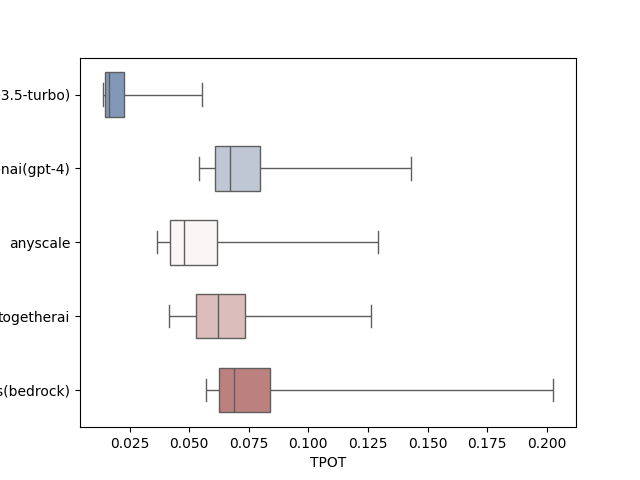
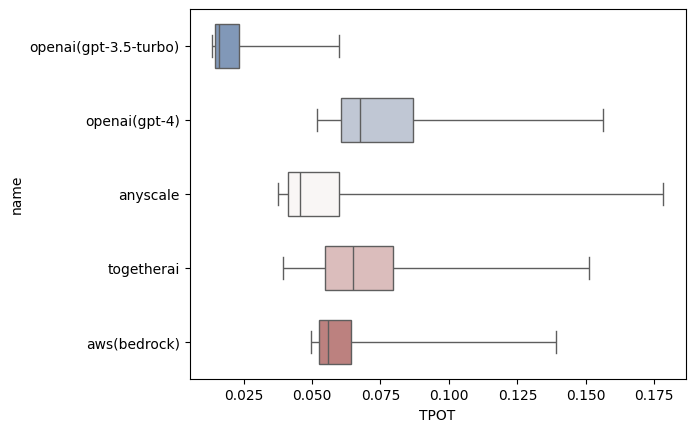
improve leadboard report

diff --git a/src/leaderboard/auto-testing.py b/src/leaderboard/auto-testing.py
@@ -17,7 +17,7 @@ test_config = {
         "func": "lambda t: int(t / 0.1 + 1) if t < 120 else None",
         "prompt_source": "arena",
     },
-    "workload_range": [None, None],
+    # "workload_range": [None, None],
     "kwargs": {
         "temperature": 0.7,
         "top_p": 1,
@@ -77,6 +77,7 @@ endpoints = {
 
 # Test start
 cur_time = time.strftime("%Y-%m-%d-%H-%M-%S")
+print(f"current time: {cur_time}")
 endpoint_configs = {k: {**asdict(v), **test_config} for k, v in endpoints.items()}
 results = {}
 hashs = []
@@ -113,8 +114,8 @@ with open(f"tmp/leaderboard_{cur_time}/result.json", "w") as f:
 assert len(set(hashs)) == 1, str(hashs)
 
 # Load_data
-cur_time = "2024-02-09-06-18-31"
-results = json.load(open(f"tmp/leaderboard_{cur_time}/result.json", "r"))
+# cur_time = "2024-02-09-08-49-37"
+# results = json.load(open(f"tmp/leaderboard_{cur_time}/result.json", "r"))
 
 import rich
 from rich.table import Table
@@ -187,29 +188,40 @@ draw("TPOT", df)
 def get_table(name_list, data_list):
     cols = ["| Name | Mean | Min | Max | Median | p25 | p75 | p5 | p95 |"]
     cols.append("|:----:|:----:|:---:|:---:|:------:|:---:|:---:|:--:|:---:|")
+    mediam_list = []
+    values = []
     for i in range(len(data_list)):
         d = data_list[i]
-        mean = round(np.mean(d), 3)
-        median = round(np.median(d), 3)
-        min = round(np.min(d), 3)
-        max = round(np.max(d), 3)
-        p25 = round(np.percentile(d, 25), 3)
-        p75 = round(np.percentile(d, 75), 3)
-        p5 = round(np.percentile(d, 5), 3)
-        p95 = round(np.percentile(d, 95), 3)
-        cols.append(
-            f"| {name_list[i]} | {mean} | {min} | {max} | {median} | {p25} | {p75} | {p5} | {p95} |"
-        )
+        mean = np.mean(d)
+        min = np.min(d)
+        max = np.max(d)
+        median = np.median(d)
+        p25 = np.percentile(d, 25)
+        p75 = np.percentile(d, 75)
+        p5 = np.percentile(d, 5)
+        p95 = np.percentile(d, 95)
+        mediam_list.append(median)
+        values.append([mean, min, max, median, p25, p75, p5, p95])
+    best_index = np.argmin(mediam_list)
+    for i in range(len(values)):
+        if i == best_index:
+            col_str = f'| **{name_list[i]}** | **{values[i][0]:.3f}** | **{values[i][1]:.3f}** | **{values[i][2]:.3f}** | **{values[i][3]:.3f}** | **{values[i][4]:.3f}** | **{values[i][5]:.3f}** | **{values[i][6]:.3f}** | **{values[i][7]:.3f}** |'
+        else:
+            col_str = f'| {name_list[i]} | {values[i][0]:.3f} | {values[i][1]:.3f} | {values[i][2]:.3f} | {values[i][3]:.3f} | {values[i][4]:.3f} | {values[i][5]:.3f} | {values[i][6]:.3f} | {values[i][7]:.3f} |'
+        cols.append(col_str)
     return "\n".join(cols)
 
 
 def get_max_table(name_list, data_list):
-    cols = ["| Name | Max |"]
+    cols = ["| Name | Peak TPS |"]
     cols.append("|:----:|:---:|")
-    for i in range(len(data_list)):
-        d = data_list[i]
-        max = round(np.max(d), 3)
-        cols.append(f"| {name_list[i]} | {max} |")
+    value_list = [np.max(d) for d in data_list]
+    max_index = np.argmax(value_list)
+    for i in range(len(value_list)):
+        if i == max_index:
+            cols.append(f"| **{name_list[i]}** | **{value_list[i]:.1f}** |")
+        else:
+            cols.append(f"| {name_list[i]} | {value_list[i]:.1f} |")
     return "\n".join(cols)
 
 
@@ -238,11 +250,12 @@ env = Environment(loader=FileSystemLoader("src/leaderboard"))
 template = env.get_template("leaderboard_template.md")
 data = {
     "last_update": cur_time,
-    "run_config": test_config,
+    "run_config": json.dumps(test_config, indent=4),
     "TTFT_table": TTFT_table,
     "TPOT_table": TPOT_table,
     "Total_TPS_table": total_TPS_table,
 }
 rendered_md = template.render(data)
+os.system('rm "LLM Endpoint Performance Leaderboard.md"')
 with open("LLM Endpoint Performance Leaderboard.md", "w") as f:
     f.write(rendered_md)

diff --git a/LLM Endpoint Performance Leaderboard.md b/LLM Endpoint Performance Leaderboard.md
@@ -1,6 +1,6 @@
 # LLM Endpoint Performance Leaderboard
 
-> Last update: 2024-02-09-06-18-31
+> Last update: 2024-02-09-08-49-37
 
 ## Key metrics
 
@@ -22,15 +22,32 @@ This metric represents the capacity of the endpoint to parallel requests. For ch
 
 > Total TPS = sum(tps_per_requests)
 
-## Run Configurations
+## Config the workload used in the benchmarking
 
 You can change the config in the `auto-testing.py` to modify the workload and some args.
 
 ```python
-{'dataset_name': 'synthesizer', 'random_seed': 1234, 'dataset_config': {'func': 'lambda t: int(t / 0.1 + 1) if t < 120 else None', 'prompt_source': 'arena'}, 'workload_range': [None, None], 'kwargs': {'temperature': 0.7, 'top_p': 1, 'max_tokens': 1024, 'skip_idle_min': 20, 'time_step': 0.001, 'request_timeout': 3600}}
+{
+    "dataset_name": "synthesizer",
+    "random_seed": 1234,
+    "dataset_config": {
+        "func": "lambda t: int(t / 0.1 + 1) if t < 120 else None",
+        "prompt_source": "arena"
+    },
+    "kwargs": {
+        "temperature": 0.7,
+        "top_p": 1,
+        "max_tokens": 1024,
+        "skip_idle_min": 20,
+        "time_step": 0.001,
+        "request_timeout": 3600
+    }
+}
 ```
 
 In our testing config, we send 10 requests to the endpoints for one second and we will keep sending requests for 2 minutes.
+
+To learn more about our workload design, please refer to our blog post [here](https://medium.com/p/ba3cca28f246).
 
 ## Time To First Token (seconds)
 
@@ -40,11 +57,11 @@ The time for the LLM application to get the first response from the endpoint.
 
 | Name | Mean | Min | Max | Median | p25 | p75 | p5 | p95 |
 |:----:|:----:|:---:|:---:|:------:|:---:|:---:|:--:|:---:|
-| openai(gpt-3.5-turbo) | 0.47 | 0.239 | 4.564 | 0.524 | 0.296 | 0.545 | 0.259 | 0.834 |
-| openai(gpt-4) | 0.691 | 0.4 | 2.701 | 0.627 | 0.531 | 0.784 | 0.462 | 1.136 |
-| anyscale | 1.015 | 0.361 | 5.63 | 0.978 | 0.672 | 1.212 | 0.481 | 1.657 |
-| togetherai | 1.457 | 0.325 | 7.996 | 1.355 | 0.77 | 1.794 | 0.448 | 2.924 |
-| aws(bedrock) | 4.714 | 0.634 | 20.53 | 3.556 | 1.529 | 5.794 | 1.108 | 13.879 |
+| **openai(gpt-3.5-turbo)** | **0.455** | **0.241** | **2.572** | **0.520** | **0.297** | **0.542** | **0.261** | **0.626** |
+| openai(gpt-4) | 0.719 | 0.376 | 2.272 | 0.660 | 0.536 | 0.817 | 0.456 | 1.233 |
+| anyscale | 1.118 | 0.352 | 2.757 | 1.065 | 0.788 | 1.384 | 0.545 | 1.892 |
+| togetherai | 1.835 | 0.332 | 17.922 | 1.484 | 0.834 | 2.316 | 0.493 | 4.087 |
+| aws(bedrock) | 2.873 | 0.654 | 20.465 | 1.916 | 1.224 | 3.249 | 1.080 | 9.104 |
 
 ## Time Per Output Token (ms)
 
@@ -54,24 +71,26 @@ The average time for the endpoint to output one token in a requests
 
 | Name | Mean | Min | Max | Median | p25 | p75 | p5 | p95 |
 |:----:|:----:|:---:|:---:|:------:|:---:|:---:|:--:|:---:|
-| openai(gpt-3.5-turbo) | 0.025 | 0.013 | 0.552 | 0.016 | 0.015 | 0.023 | 0.014 | 0.055 |
-| openai(gpt-4) | 0.084 | 0.048 | 1.351 | 0.067 | 0.061 | 0.08 | 0.054 | 0.144 |
-| anyscale | 0.064 | 0.028 | 0.693 | 0.048 | 0.042 | 0.062 | 0.037 | 0.129 |
-| togetherai | 0.074 | 0.029 | 0.998 | 0.062 | 0.053 | 0.073 | 0.041 | 0.126 |
-| aws(bedrock) | 0.124 | 0.0 | 14.28 | 0.069 | 0.062 | 0.084 | 0.057 | 0.205 |
+| **openai(gpt-3.5-turbo)** | **0.026** | **0.012** | **0.550** | **0.016** | **0.014** | **0.023** | **0.014** | **0.060** |
+| openai(gpt-4) | 0.088 | 0.044 | 1.071 | 0.067 | 0.061 | 0.087 | 0.052 | 0.156 |
+| anyscale | 0.070 | 0.034 | 1.041 | 0.046 | 0.041 | 0.060 | 0.037 | 0.178 |
+| togetherai | 0.077 | 0.028 | 0.965 | 0.065 | 0.055 | 0.080 | 0.039 | 0.151 |
+| aws(bedrock) | 0.076 | 0.000 | 1.298 | 0.056 | 0.053 | 0.064 | 0.050 | 0.140 |
 
 ## Total TPS (Tokens per seconds)
 
 The sum of all ongoing requests' TPS. In this part, we measure the peak TPS in the testing.
 
-| Name | Max |
+| Name | Peak TPS |
 |:----:|:---:|
-| openai(gpt-3.5-turbo) | 2902.0 |
-| openai(gpt-4) | 1352.6 |
-| anyscale | 806.2 |
-| togetherai | 4079.4 |
-| aws(bedrock) | 2559.6 |
+| openai(gpt-3.5-turbo) | 2728.8 |
+| openai(gpt-4) | 1385.4 |
+| anyscale | 854.8 |
+| **togetherai** | **4344.4** |
+| aws(bedrock) | 2533.6 |
 
 ## Feedback
 
-* please use the issue to report any bugs or suggestions.
+* Please use the issue to report any bugs or suggestions.
+* Please contact us if you want to add your endpoint to the leaderboard.
+* You can also use our repo to run the testing by yourself.

diff --git a/src/leaderboard/leaderboard_template.md b/src/leaderboard/leaderboard_template.md
@@ -22,7 +22,7 @@ This metric represents the capacity of the endpoint to parallel requests. For ch
 
 > Total TPS = sum(tps_per_requests)
 
-## Run Configurations
+## Config the workload used in the benchmarking
 
 You can change the config in the `auto-testing.py` to modify the workload and some args.
 
@@ -31,6 +31,8 @@ You can change the config in the `auto-testing.py` to modify the workload and so
 ```
 
 In our testing config, we send 10 requests to the endpoints for one second and we will keep sending requests for 2 minutes.
+
+To learn more about our workload design, please refer to our blog post [here](https://medium.com/p/ba3cca28f246).
 
 ## Time To First Token (seconds)
 
@@ -56,4 +58,6 @@ The sum of all ongoing requests' TPS. In this part, we measure the peak TPS in t
 
 ## Feedback
 
-* please use the issue to report any bugs or suggestions.
+* Please use the issue to report any bugs or suggestions.
+* Please contact us if you want to add your endpoint to the leaderboard.
+* You can also use our repo to run the testing by yourself.

diff --git a/leaderboard_data/TTFT_table.md b/leaderboard_data/TTFT_table.md
@@ -1,7 +1,7 @@
 | Name | Mean | Min | Max | Median | p25 | p75 | p5 | p95 |
 |:----:|:----:|:---:|:---:|:------:|:---:|:---:|:--:|:---:|
-| openai(gpt-3.5-turbo) | 0.47 | 0.239 | 4.564 | 0.524 | 0.296 | 0.545 | 0.259 | 0.834 |
-| openai(gpt-4) | 0.691 | 0.4 | 2.701 | 0.627 | 0.531 | 0.784 | 0.462 | 1.136 |
-| anyscale | 1.015 | 0.361 | 5.63 | 0.978 | 0.672 | 1.212 | 0.481 | 1.657 |
-| togetherai | 1.457 | 0.325 | 7.996 | 1.355 | 0.77 | 1.794 | 0.448 | 2.924 |
-| aws(bedrock) | 4.714 | 0.634 | 20.53 | 3.556 | 1.529 | 5.794 | 1.108 | 13.879 |
+| **openai(gpt-3.5-turbo)** | **0.455** | **0.241** | **2.572** | **0.520** | **0.297** | **0.542** | **0.261** | **0.626** |
+| openai(gpt-4) | 0.719 | 0.376 | 2.272 | 0.660 | 0.536 | 0.817 | 0.456 | 1.233 |
+| anyscale | 1.118 | 0.352 | 2.757 | 1.065 | 0.788 | 1.384 | 0.545 | 1.892 |
+| togetherai | 1.835 | 0.332 | 17.922 | 1.484 | 0.834 | 2.316 | 0.493 | 4.087 |
+| aws(bedrock) | 2.873 | 0.654 | 20.465 | 1.916 | 1.224 | 3.249 | 1.080 | 9.104 |

diff --git a/leaderboard_data/TPOT_table.md b/leaderboard_data/TPOT_table.md
@@ -1,7 +1,7 @@
 | Name | Mean | Min | Max | Median | p25 | p75 | p5 | p95 |
 |:----:|:----:|:---:|:---:|:------:|:---:|:---:|:--:|:---:|
-| openai(gpt-3.5-turbo) | 0.025 | 0.013 | 0.552 | 0.016 | 0.015 | 0.023 | 0.014 | 0.055 |
-| openai(gpt-4) | 0.084 | 0.048 | 1.351 | 0.067 | 0.061 | 0.08 | 0.054 | 0.144 |
-| anyscale | 0.064 | 0.028 | 0.693 | 0.048 | 0.042 | 0.062 | 0.037 | 0.129 |
-| togetherai | 0.074 | 0.029 | 0.998 | 0.062 | 0.053 | 0.073 | 0.041 | 0.126 |
-| aws(bedrock) | 0.124 | 0.0 | 14.28 | 0.069 | 0.062 | 0.084 | 0.057 | 0.205 |
+| **openai(gpt-3.5-turbo)** | **0.026** | **0.012** | **0.550** | **0.016** | **0.014** | **0.023** | **0.014** | **0.060** |
+| openai(gpt-4) | 0.088 | 0.044 | 1.071 | 0.067 | 0.061 | 0.087 | 0.052 | 0.156 |
+| anyscale | 0.070 | 0.034 | 1.041 | 0.046 | 0.041 | 0.060 | 0.037 | 0.178 |
+| togetherai | 0.077 | 0.028 | 0.965 | 0.065 | 0.055 | 0.080 | 0.039 | 0.151 |
+| aws(bedrock) | 0.076 | 0.000 | 1.298 | 0.056 | 0.053 | 0.064 | 0.050 | 0.140 |

diff --git a/leaderboard_data/total_TPS_table.md b/leaderboard_data/total_TPS_table.md
@@ -1,7 +1,7 @@
-| Name | Max |
+| Name | Peak TPS |
 |:----:|:---:|
-| openai(gpt-3.5-turbo) | 2902.0 |
-| openai(gpt-4) | 1352.6 |
-| anyscale | 806.2 |
-| togetherai | 4079.4 |
-| aws(bedrock) | 2559.6 |
+| openai(gpt-3.5-turbo) | 2728.8 |
+| openai(gpt-4) | 1385.4 |
+| anyscale | 854.8 |
+| **togetherai** | **4344.4** |
+| aws(bedrock) | 2533.6 |
